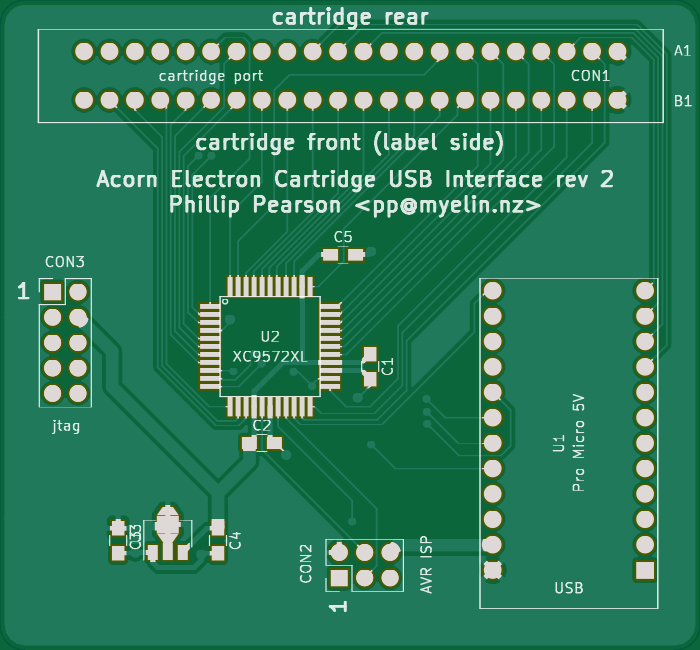
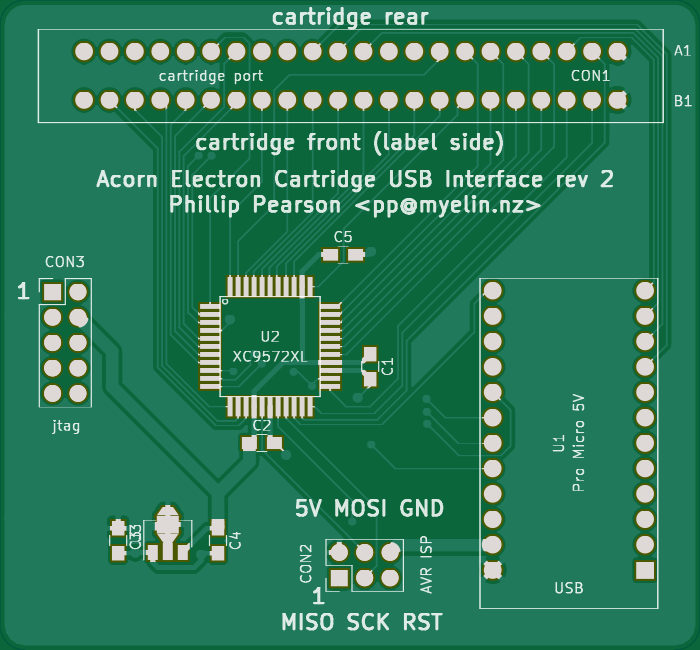
Silkscreen and BOM updates

Changed region(s): [[0.39, 0.8923, 0.63, 0.9846], [0.42, 0.7692, 0.63, 0.8]]

diff --git a/standalone_cartridge_programmer/pcb/standalone_programmer.py b/standalone_cartridge_programmer/pcb/standalone_programmer.py
@@ -204,7 +204,7 @@ cpld = Component(
     footprint="myelin-kicad:xilinx_vqg44",
     identifier="U2",
     value="XC9572XL-10VQG44C",
-	desc="Xilinx XC9572XL in 44-pin 0.8mm TQFP package.  Any speed or temperature grade is OK.",
+    desc="IC CPLD Xilinx 72MC 44-pin; https://www.digikey.com/products/en?keywords=122-1448-ND",
     pins=[
         # change ../cpld/constraints.ucf if any pinouts change
         Pin(39, "P1.2", ["cart_A7"]),
@@ -295,4 +295,4 @@ reg_in_cap = C0805("1u", "5V", "GND", ref="C3")
 reg_out_cap = C0805("1u", "3V3", "GND", ref="C4")
 
 dump_netlist("standalone_programmer.net")
-dump_bom("bill_of_materials.txt")
+dump_bom("bill_of_materials.txt", "readable_bill_of_materials.txt")
